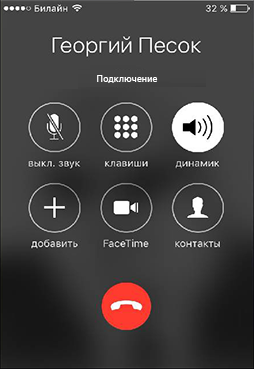
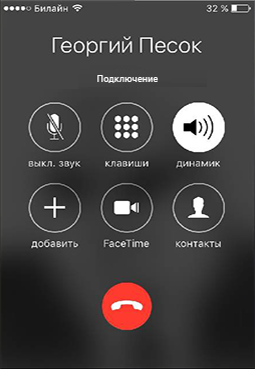
fix video size

diff --git a/html/mod_randomvideo/call-george/style.min.css b/html/mod_randomvideo/call-george/style.min.css
@@ -1,1 +1,1 @@
-.call-george-module .phone{display:inline-block;position:relative;width:300px;height:552px;background:url('/templates/nerudas/html/mod_randomvideo/call-george/phone.png')}.call-george-module .phone>.display{position:absolute;top:92px;left:25px}.call-george-module .phone>.display>.inner{display:none;position:relative;width:254px;height:369px}.call-george-module .page_ready{background:url('/templates/nerudas/html/mod_randomvideo/call-george/page_ready.png')}.call-george-module .page_ready .get_video{display:block;width:155px;height:31px;cursor:pointer;position:absolute;bottom:53px;left:52px}.call-george-module .before_play{background:url('/templates/nerudas/html/mod_randomvideo/call-george/before_play.png')}.call-george-module .before_play .stop_load{display:block;width:50px;height:50px;cursor:pointer;position:absolute;bottom:39px;left:101px;border-radius:50%}.call-george-module .on_play{background:url('/templates/nerudas/html/mod_randomvideo/call-george/on_play.png')}.call-george-module .on_play video{display:block;width:254px;height:369px;margin:0;padding:0;object-fit:fill}.call-george-module .on_play .stop_video{display:block;width:50px;height:50px;cursor:pointer;position:absolute;bottom:39px;left:101px;border-radius:50%}.call-george-module .after_play{background:url('/templates/nerudas/html/mod_randomvideo/call-george/after_play.png')}.call-george-module .after_play .get_video{display:block;width:155px;height:31px;cursor:pointer;position:absolute;bottom:53px;left:52px}
+.call-george-module .phone{display:inline-block;position:relative;width:300px;height:552px;background:url('/templates/nerudas/html/mod_randomvideo/call-george/phone.png');background-size:100%}.call-george-module .phone>.display{position:absolute;top:92px;left:24px}.call-george-module .phone>.display>.inner{display:none;position:relative;width:255px;height:369px}.call-george-module .page_ready{background:url('/templates/nerudas/html/mod_randomvideo/call-george/page_ready.png');background-size:100%}.call-george-module .page_ready .get_video{display:block;width:155px;height:31px;cursor:pointer;position:absolute;bottom:53px;left:52px}.call-george-module .before_play{background:url('/templates/nerudas/html/mod_randomvideo/call-george/before_play.png');background-size:100%}.call-george-module .before_play .stop_load{display:block;width:50px;height:50px;cursor:pointer;position:absolute;bottom:39px;left:101px;border-radius:50%}.call-george-module .on_play{background:url('/templates/nerudas/html/mod_randomvideo/call-george/on_play.png');background-size:100%}.call-george-module .on_play video{display:block;width:100%;height:100%;margin:0;padding:0;object-fit:fill}.call-george-module .on_play .stop_video{display:block;width:50px;height:50px;cursor:pointer;position:absolute;bottom:39px;left:101px;border-radius:50%}.call-george-module .after_play{background:url('/templates/nerudas/html/mod_randomvideo/call-george/after_play.png');background-size:100%}.call-george-module .after_play .get_video{display:block;width:155px;height:31px;cursor:pointer;position:absolute;bottom:53px;left:52px}

diff --git a/html/mod_randomvideo/call-george/style.css b/html/mod_randomvideo/call-george/style.css
@@ -13,23 +13,25 @@
 	width: 300px;
 	height: 552px;
 	background: url('/templates/nerudas/html/mod_randomvideo/call-george/phone.png');
+	background-size: 100%;
 }
 
 .call-george-module .phone > .display {
 	position: absolute;
 	top: 92px;
-	left: 25px;
+	left: 24px;
 }
 
 .call-george-module .phone > .display > .inner {
 	display: none;
 	position: relative;
-	width: 254px;
+	width: 255px;
 	height: 369px;
 }
 
 .call-george-module .page_ready {
 	background: url('/templates/nerudas/html/mod_randomvideo/call-george/page_ready.png');
+	background-size: 100%;
 }
 
 .call-george-module .page_ready .get_video {
@@ -44,6 +46,7 @@
 
 .call-george-module .before_play {
 	background: url('/templates/nerudas/html/mod_randomvideo/call-george/before_play.png');
+	background-size: 100%;
 }
 
 .call-george-module .before_play .stop_load {
@@ -59,12 +62,13 @@
 
 .call-george-module .on_play {
 	background: url('/templates/nerudas/html/mod_randomvideo/call-george/on_play.png');
+	background-size: 100%;
 }
 
 .call-george-module .on_play video {
 	display: block;
-	width: 254px;
-	height: 369px;
+	width: 100%;
+	height: 100%;
 	margin: 0;
 	padding: 0;
 	object-fit: fill;
@@ -83,6 +87,7 @@
 
 .call-george-module .after_play {
 	background: url('/templates/nerudas/html/mod_randomvideo/call-george/after_play.png');
+	background-size: 100%;
 }
 
 .call-george-module .after_play .get_video {
